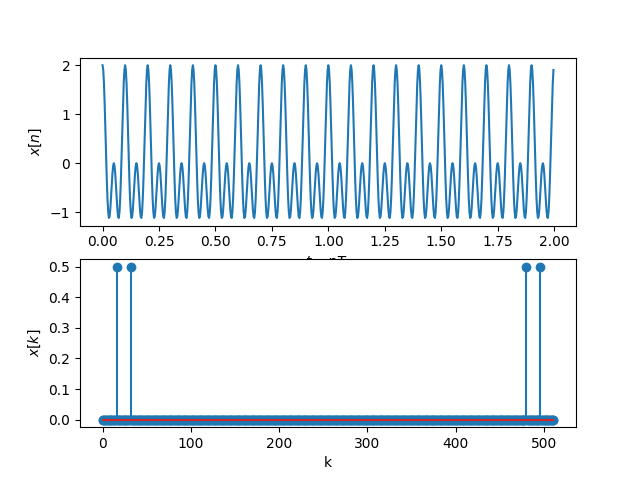
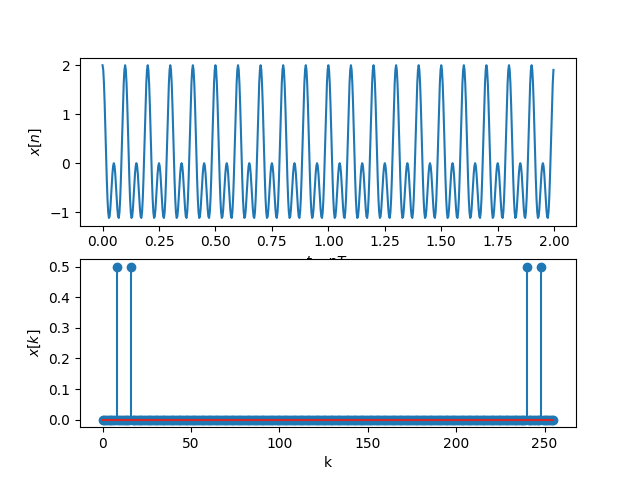
Исправил скрин в readme

diff --git a/Lecture4 (5.10)/files/test_dft1.py b/Lecture4 (5.10)/files/test_dft1.py
@@ -13,7 +13,7 @@ plt.plot(t,x)
 #plt.stem(t,x) # для отображения временных отсчетов сигнала, выбрать длительность 0.2 сек
 plt.xlabel('$t=nT_s$')
 plt.ylabel('$x[n]$') 
-N=512 # количество точек ДПФ
+N=256 # количество точек ДПФ
 X = fft(x,N)/N # вычисление ДПФ и нормирование на N
 #plt.figure(2)
 plt.subplot(2,1,2)

diff --git a/Lecture4 (5.10)/README.md b/Lecture4 (5.10)/README.md
@@ -14,8 +14,8 @@
 
 ### №1
 
-<img src="./photo/fc-10.png" width="600" />
-<img src="./photo/fc-20.png" width="600" />
+<img src="./photo/fc-10.png" width="500" />
+<img src="./photo/fc-20.png" width="500" />
 
 По графикам видно что но нормированная частота одинаковая
 
@@ -23,25 +23,24 @@
 `∆f=fs/N`
 320/256 = 1.25
 
-
-при fc = 10   
+При fc = 10   
 *k=8*
 
 
 ### №3
-при fc = 20 и закреплённым fs = 320     
+При fc = 20 и закреплённым fs = 320     
 *k=16*
 
 ### №4
 `∆f=fs/N` 320/512 = 0.625   
-при fc = 10, N = 512     
+При fc = 10, N = 512     
 *k=16*
 
 ### №5
 ```
 x=np.cos(2*np.pi*fc*t)+np.cos(2*np.pi*20*t)
 ```
-<img src="./photo/10Hz+20Hz.png" width="600" />
+<img src="./photo/10Hz+20Hz.png" width="500" />
 
 
 ### №6
@@ -64,14 +63,15 @@ x=np.cos(2*np.pi*fc*t)+np.cos(2*np.pi*20*t)
 [0,0,-1j,0,0,0,0,0]         
 <img src="./photo/-1j.png" width="400" />   
 **Вывод**   
-*Мнимая единица влияет на фазу колебания* 
+*Мнимая единица влияет на фазу колебания*   
+
 [0,0,2-1j,0,0,0,0,0]      
 <img src="./photo/2-1j.png" width="400" />      
 **Вывод**       
 *Число перед мнимой единицей влияет на амплитуда колебания*     
 
 
-### №Доп задание
+### № Доп задание
 Дописал к коду недельной давности:
 ```
 N=1024 # количество точек ДПФ
